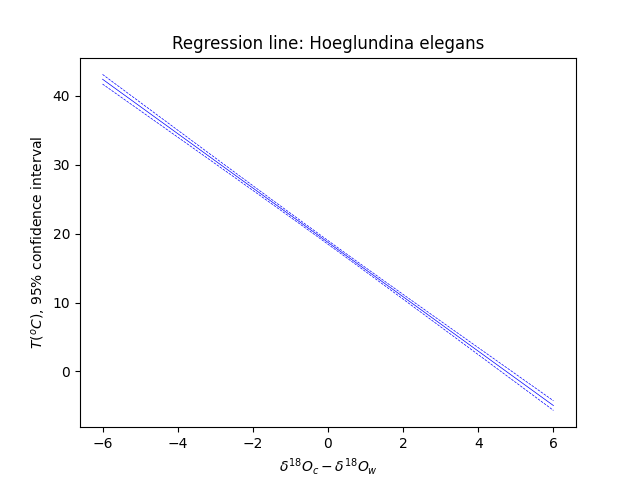
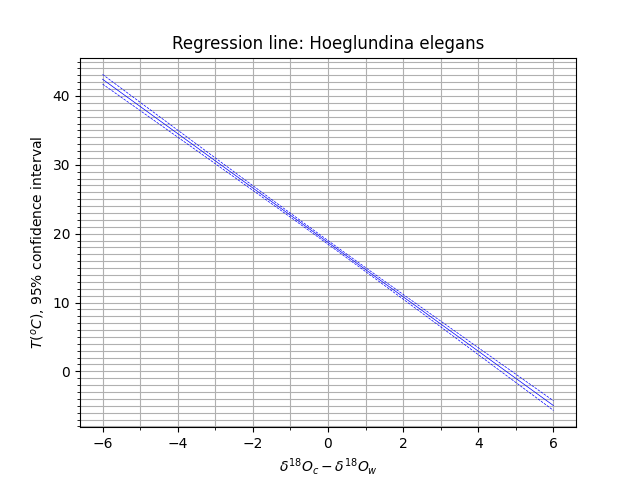
add ticks and grids for 5

Changed region(s): [[0.125, 0.125, 0.9062, 0.9062]]

diff --git a/task5.py b/task5.py
@@ -5,6 +5,7 @@ from uncertainties import ufloat
 from uncertainties import unumpy
 
 import matplotlib.pyplot as plt
+from matplotlib.ticker import (MultipleLocator, AutoMinorLocator)
 
 # `model.csv` contains the ouput of `az.summary` with "p" prepended
 model = pd.read_csv("model.csv", sep='\s+', index_col=0)[["mean", "sd"]]
@@ -33,8 +34,9 @@ ax.plot(d, unumpy.nominal_values(T), "b-", linewidth=0.5)
 ax.plot(d, unumpy.nominal_values(T) + 2 * unumpy.std_devs(T), "b--", linewidth=0.5)
 ax.plot(d, unumpy.nominal_values(T) - 2 * unumpy.std_devs(T), "b--", linewidth=0.5)
 
-ax.tick_params(axis='both', which='minor', bottom=False)
-ax.grid(True, which='minor', axis='both')
+ax.xaxis.set_minor_locator(MultipleLocator(1))
+ax.yaxis.set_minor_locator(MultipleLocator(1))
+ax.grid(True, which='both')
 
 ax.set_xlabel("$\delta^{18}O_c - \delta^{18}O_w$")
 ax.set_ylabel("$T (^oC)$, 95% confidence interval")
